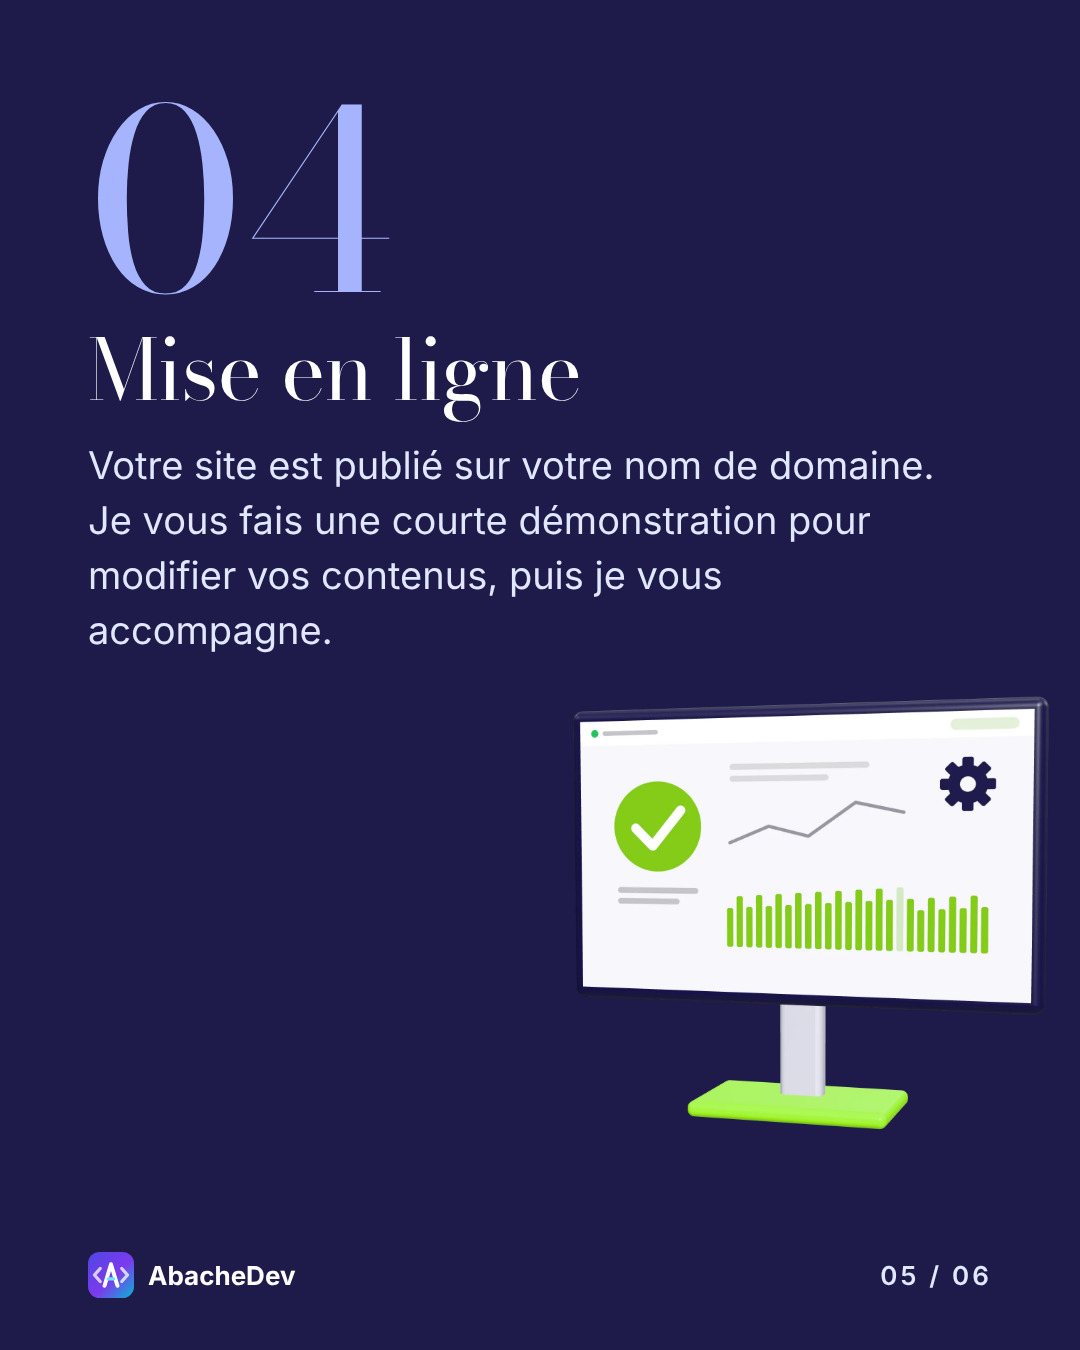
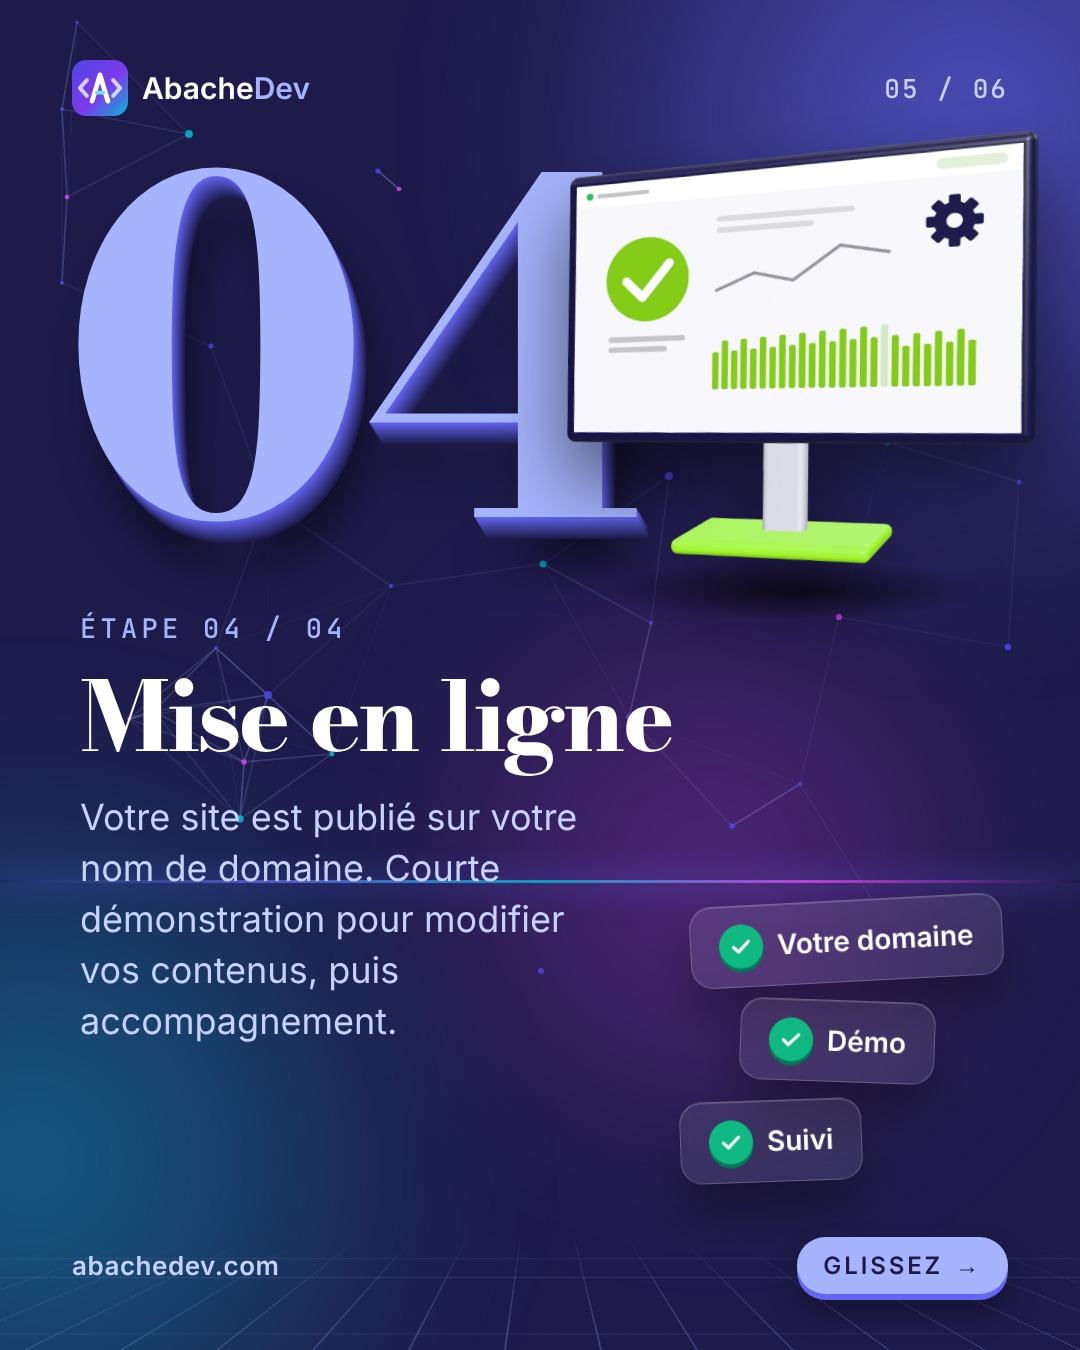
Redesign the unposted posts (p08-p12) and the 3 stories in the new website style, with 3D depth
Claude-Session: https://claude.ai/code/session_01SJkFDNGHsUQKvMH8vjxh8D

diff --git a/marketing/instagram-facebook/README.md b/marketing/instagram-facebook/README.md
@@ -450,4 +450,4 @@ Story : pas de légende visible, le message est sur l’image (voir les conseils
 
 Idées gardées en réserve : refonte de site, maintenance, « Je ne sais pas quoi mettre sur mon site », Starter en 5 jours, ce qui est inclus dans chaque site, et les autres concepts de design (BrightFix, Flowly, Studio Mira, Wander Notes).
 
-Les images ont été générées à partir des couleurs, de la typographie et des objets 3D du site. Les numéros de téléphone et les prix sont écrits dans les images : si un prix change, il faut refaire les visuels concernés (p05, p10, s03).
+Les images ont été générées à partir des couleurs, de la typographie et des objets 3D du site. p08 à p12 et les trois stories ont été refaites dans la série « Depth », avec le nouveau design du site : halo indigo, cyan et magenta, sol quadrillé en perspective, objets 3D posés sur la grille, étiquettes en verre à différentes profondeurs, chiffres et prix en relief. Les fins de carrousel renvoient aussi vers la réservation d’un appel sur abachedev.com. Les numéros de téléphone et les prix sont écrits dans les images : si un prix change, il faut refaire les visuels concernés (p05, p10, s03).
